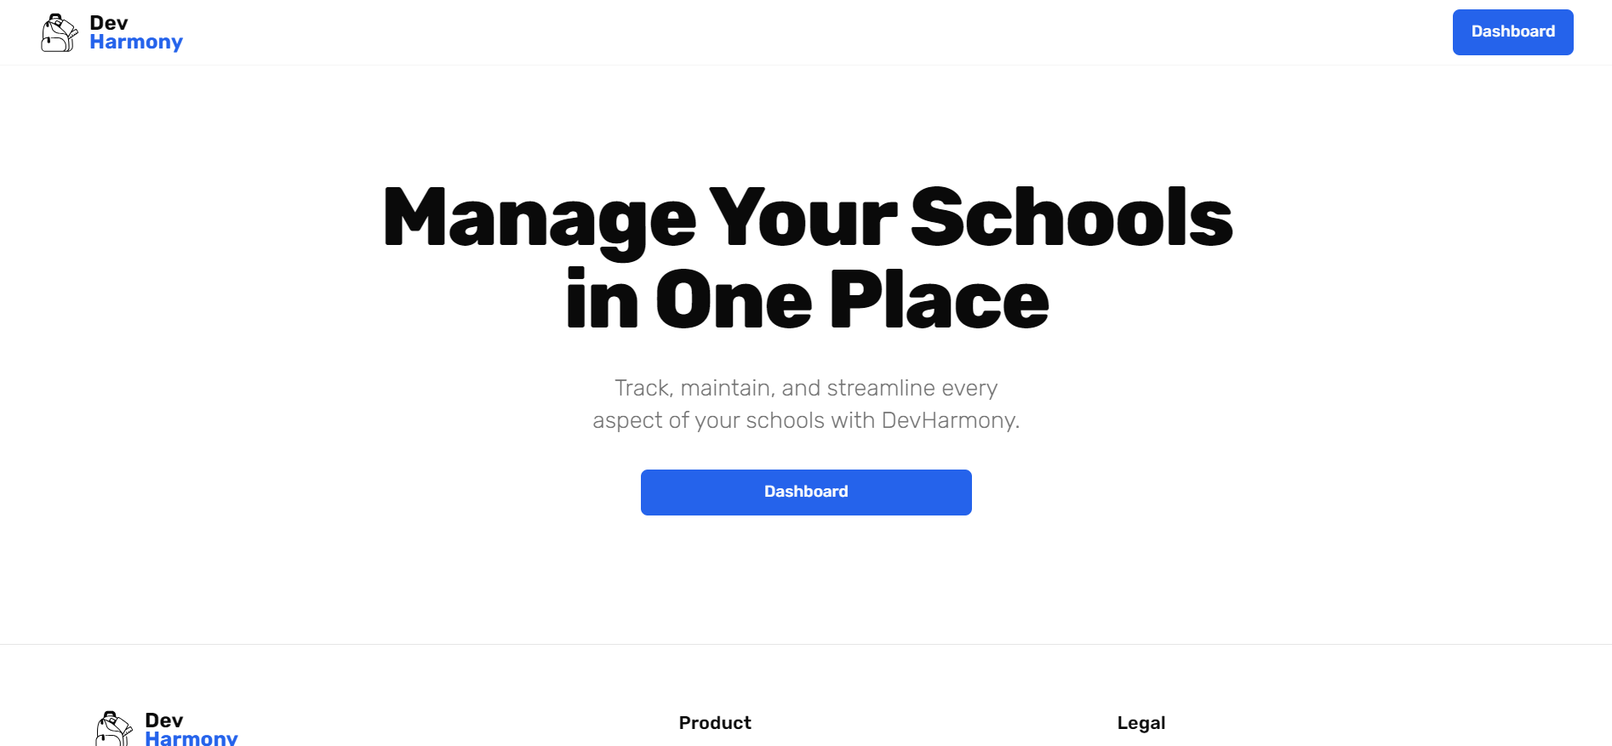
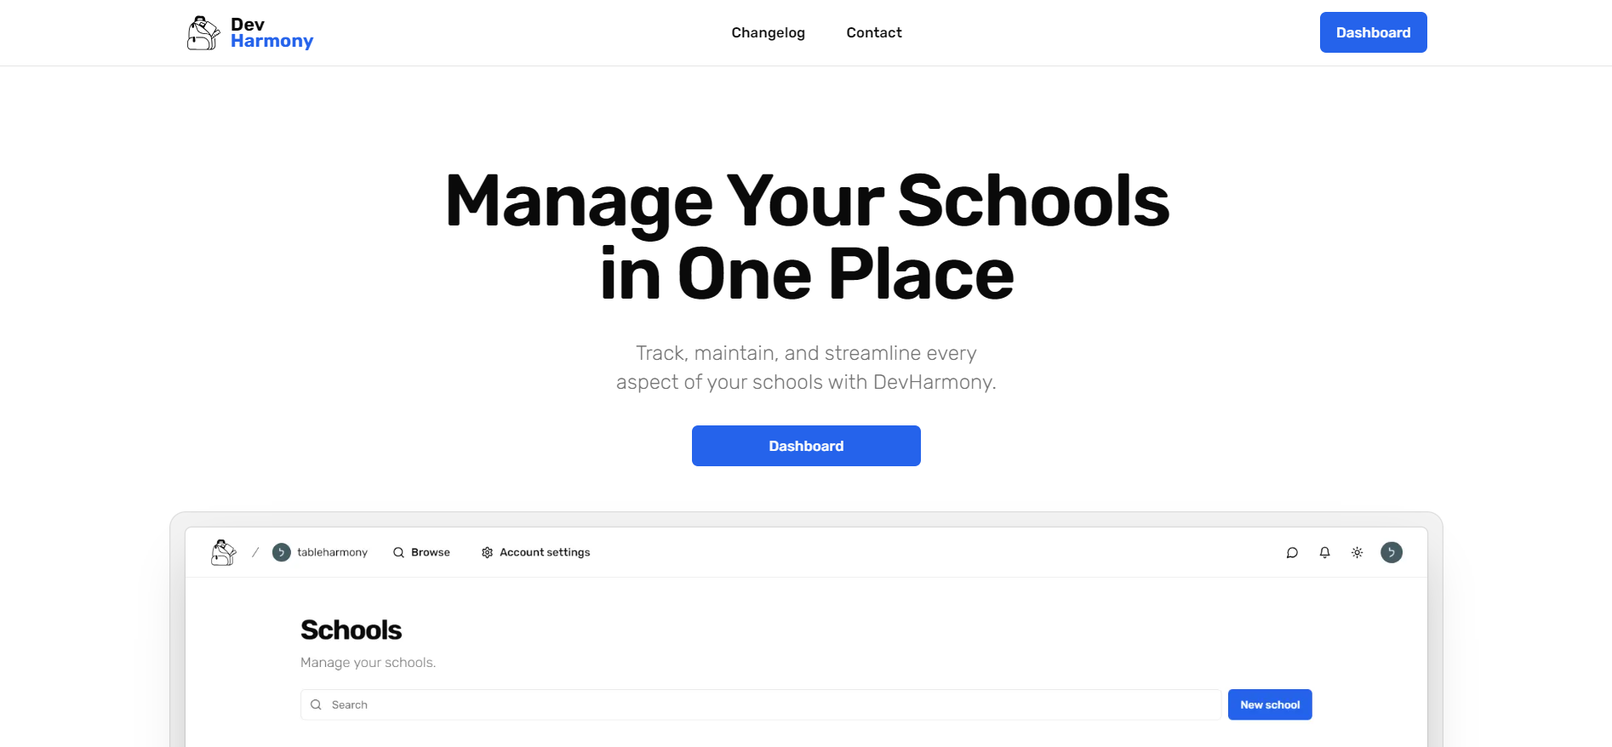
ui minor fixes

diff --git a/public/sw.js b/public/sw.js
@@ -1,1 +1,1 @@
-if(!self.define){let s,e={};const n=(n,c)=>(n=new URL(n+".js",c).href,e[n]||new Promise((e=>{if("document"in self){const s=document.createElement("script");s.src=n,s.onload=e,document.head.appendChild(s)}else s=n,importScripts(n),e()})).then((()=>{let s=e[n];if(!s)throw new Error(`Module ${n} didn’t register its module`);return s})));self.define=(c,a)=>{const t=s||("document"in self?document.currentScript.src:"")||location.href;if(e[t])return;let i={};const o=s=>n(s,t),r={module:{uri:t},exports:i,require:o};e[t]=Promise.all(c.map((s=>r[s]||o(s)))).then((s=>(a(...s),i)))}}define(["./workbox-e9849328"],(function(s){"use strict";importScripts(),self.skipWaiting(),s.clientsClaim(),s.precacheAndRoute([{url:"/_next/app-build-manifest.json",revision:"a9f966fd775cbc101e0749d63a0739d9"},{url:"/_next/static/chunks/1232-65c2bd0e52476702.js",revision:"z7jmnrWswtokpjYO-_5Rh"},{url:"/_next/static/chunks/15be12ea-9f983c0414de8ccf.js",revision:"z7jmnrWswtokpjYO-_5Rh"},{url:"/_next/static/chunks/1698-d7071b33f66cc5f3.js",revision:"z7jmnrWswtokpjYO-_5Rh"},{url:"/_next/static/chunks/1994-df08150406d97cff.js",revision:"z7jmnrWswtokpjYO-_5Rh"},{url:"/_next/static/chunks/2023-af6ad883ae61f665.js",revision:"z7jmnrWswtokpjYO-_5Rh"},{url:"/_next/static/chunks/221-ebfd36af40cd0c46.js",revision:"z7jmnrWswtokpjYO-_5Rh"},{url:"/_next/static/chunks/2221-79584a41ff7ca46a.js",revision:"z7jmnrWswtokpjYO-_5Rh"},{url:"/_next/static/chunks/2577-c667050678715b1c.js",revision:"z7jmnrWswtokpjYO-_5Rh"},{url:"/_next/static/chunks/2845-040b2211a756c250.js",revision:"z7jmnrWswtokpjYO-_5Rh"},{url:"/_next/static/chunks/3113-6ebdb71efa52bae4.js",revision:"z7jmnrWswtokpjYO-_5Rh"},{url:"/_next/static/chunks/3324-c027486fa1e75c88.js",revision:"z7jmnrWswtokpjYO-_5Rh"},{url:"/_next/static/chunks/3446-c319ce7ee53e9b38.js",revision:"z7jmnrWswtokpjYO-_5Rh"},{url:"/_next/static/chunks/3949-32330102e0c052d1.js",revision:"z7jmnrWswtokpjYO-_5Rh"},{url:"/_next/static/chunks/4005-4c08b5783fc878c6.js",revision:"z7jmnrWswtokpjYO-_5Rh"},{url:"/_next/static/chunks/4209-ae66905dfd730a77.js",revision:"z7jmnrWswtokpjYO-_5Rh"},{url:"/_next/static/chunks/4714-938ec2e18c556a72.js",revision:"z7jmnrWswtokpjYO-_5Rh"},{url:"/_next/static/chunks/4715-ed6a706d5b437a2e.js",revision:"z7jmnrWswtokpjYO-_5Rh"},{url:"/_next/static/chunks/4789-dd92a458758345f6.js",revision:"z7jmnrWswtokpjYO-_5Rh"},{url:"/_next/static/chunks/4881-a83385fe821856cf.js",revision:"z7jmnrWswtokpjYO-_5Rh"},{url:"/_next/static/chunks/4999-cc43c7b7138d0afe.js",revision:"z7jmnrWswtokpjYO-_5Rh"},{url:"/_next/static/chunks/5126-ee3d7f8405c62c60.js",revision:"z7jmnrWswtokpjYO-_5Rh"},{url:"/_next/static/chunks/5362-58b63543a5ec8bea.js",revision:"z7jmnrWswtokpjYO-_5Rh"},{url:"/_next/static/chunks/5450-00dd90b0c02352bb.js",revision:"z7jmnrWswtokpjYO-_5Rh"},{url:"/_next/static/chunks/5792-15719e17fc582434.js",revision:"z7jmnrWswtokpjYO-_5Rh"},{url:"/_next/static/chunks/5912-4054042d66e5c5c6.js",revision:"z7jmnrWswtokpjYO-_5Rh"},{url:"/_next/static/chunks/5934-3cb1310bd8097b9c.js",revision:"z7jmnrWswtokpjYO-_5Rh"},{url:"/_next/static/chunks/6011-5a0477b41a28270d.js",revision:"z7jmnrWswtokpjYO-_5Rh"},{url:"/_next/static/chunks/6297-498f089b25add8f1.js",revision:"z7jmnrWswtokpjYO-_5Rh"},{url:"/_next/static/chunks/7379-0860ce17af2aaa77.js",revision:"z7jmnrWswtokpjYO-_5Rh"},{url:"/_next/static/chunks/7429-b89a3cb897b30239.js",revision:"z7jmnrWswtokpjYO-_5Rh"},{url:"/_next/static/chunks/7786-a5ae846f8a586a01.js",revision:"z7jmnrWswtokpjYO-_5Rh"},{url:"/_next/static/chunks/8007-435c2623e5ee0e6c.js",revision:"z7jmnrWswtokpjYO-_5Rh"},{url:"/_next/static/chunks/8328-5ca3e51eb6b25ae3.js",revision:"z7jmnrWswtokpjYO-_5Rh"},{url:"/_next/static/chunks/872-9ebf5d184fd3db0c.js",revision:"z7jmnrWswtokpjYO-_5Rh"},{url:"/_next/static/chunks/8993-c3b0b291d297fbac.js",revision:"z7jmnrWswtokpjYO-_5Rh"},{url:"/_next/static/chunks/9556-a94e5746d937d654.js",revision:"z7jmnrWswtokpjYO-_5Rh"},{url:"/_next/static/chunks/app/(auth)/sign-in/%5B%5B...sign-in%5D%5D/page-2680e29f183e453a.js",revision:"z7jmnrWswtokpjYO-_5Rh"},{url:"/_next/static/chunks/app/(auth)/sign-up/%5B%5B...sign-up%5D%5D/page-596268212801ecb5.js",revision:"z7jmnrWswtokpjYO-_5Rh"},{url:"/_next/static/chunks/app/(landing)/layout-03a67f5ee4aa438e.js",revision:"z7jmnrWswtokpjYO-_5Rh"},{url:"/_next/static/chunks/app/(landing)/page-a9ee40e0ca7a9064.js",revision:"z7jmnrWswtokpjYO-_5Rh"},{url:"/_next/static/chunks/app/(legal)/layout-aa0511ec8b36bc65.js",revision:"z7jmnrWswtokpjYO-_5Rh"},{url:"/_next/static/chunks/app/(legal)/privacy-policy/page-75e4ec9e9f7fa92a.js",revision:"z7jmnrWswtokpjYO-_5Rh"},{url:"/_next/static/chunks/app/(legal)/terms-of-service/page-1ed547bcc980dda8.js",revision:"z7jmnrWswtokpjYO-_5Rh"},{url:"/_next/static/chunks/app/(main)/account-settings/page-06211ca84b4e590d.js",revision:"z7jmnrWswtokpjYO-_5Rh"},{url:"/_next/static/chunks/app/(main)/browse/page-d605e019797a93fc.js",revision:"z7jmnrWswtokpjYO-_5Rh"},{url:"/_next/static/chunks/app/(main)/layout-87b634f7248ce33c.js",revision:"z7jmnrWswtokpjYO-_5Rh"},{url:"/_next/static/chunks/app/(main)/notifications/page-0ec32f7140f2ce5d.js",revision:"z7jmnrWswtokpjYO-_5Rh"},{url:"/_next/static/chunks/app/(main)/schools/%5BschoolId%5D/(courses)/courses/%5BcourseId%5D/classes/page-115fcb42e413abe1.js",revision:"z7jmnrWswtokpjYO-_5Rh"},{url:"/_next/static/chunks/app/(main)/schools/%5BschoolId%5D/(courses)/courses/%5BcourseId%5D/course-settings/danger/page-7407c1b3518d4ca0.js",revision:"z7jmnrWswtokpjYO-_5Rh"},{url:"/_next/static/chunks/app/(main)/schools/%5BschoolId%5D/(courses)/courses/%5BcourseId%5D/course-settings/page-cc35d3def5d8a3fe.js",revision:"z7jmnrWswtokpjYO-_5Rh"},{url:"/_next/static/chunks/app/(main)/schools/%5BschoolId%5D/(courses)/courses/%5BcourseId%5D/enrollments/page-e84b7385846be3be.js",revision:"z7jmnrWswtokpjYO-_5Rh"},{url:"/_next/static/chunks/app/(main)/schools/%5BschoolId%5D/(courses)/courses/%5BcourseId%5D/events/%5BeventId%5D/page-0a72c1f321eb1b5f.js",revision:"z7jmnrWswtokpjYO-_5Rh"},{url:"/_next/static/chunks/app/(main)/schools/%5BschoolId%5D/(courses)/courses/%5BcourseId%5D/events/page-284ae741b0670b2c.js",revision:"z7jmnrWswtokpjYO-_5Rh"},{url:"/_next/static/chunks/app/(main)/schools/%5BschoolId%5D/(courses)/courses/%5BcourseId%5D/layout-388bd8c4f5c891c5.js",revision:"z7jmnrWswtokpjYO-_5Rh"},{url:"/_next/static/chunks/app/(main)/schools/%5BschoolId%5D/(courses)/courses/%5BcourseId%5D/memberships/page-65e760db91c90756.js",revision:"z7jmnrWswtokpjYO-_5Rh"},{url:"/_next/static/chunks/app/(main)/schools/%5BschoolId%5D/(courses)/courses/%5BcourseId%5D/page-446529c78780982a.js",revision:"z7jmnrWswtokpjYO-_5Rh"},{url:"/_next/static/chunks/app/(main)/schools/%5BschoolId%5D/(courses)/courses/page-18d98cdebb3c8cb3.js",revision:"z7jmnrWswtokpjYO-_5Rh"},{url:"/_next/static/chunks/app/(main)/schools/%5BschoolId%5D/(courses)/layout-9edc934ce34548cd.js",revision:"z7jmnrWswtokpjYO-_5Rh"},{url:"/_next/static/chunks/app/(main)/schools/%5BschoolId%5D/(main)/enrollments/page-85dee5fa183ed9a6.js",revision:"z7jmnrWswtokpjYO-_5Rh"},{url:"/_next/static/chunks/app/(main)/schools/%5BschoolId%5D/(main)/layout-1fa5de62aea90c8f.js",revision:"z7jmnrWswtokpjYO-_5Rh"},{url:"/_next/static/chunks/app/(main)/schools/%5BschoolId%5D/(main)/members/%5BmemberId%5D/courses/page-e1f86b26e9eefdb3.js",revision:"z7jmnrWswtokpjYO-_5Rh"},{url:"/_next/static/chunks/app/(main)/schools/%5BschoolId%5D/(main)/members/%5BmemberId%5D/layout-1a8abb7977116ce5.js",revision:"z7jmnrWswtokpjYO-_5Rh"},{url:"/_next/static/chunks/app/(main)/schools/%5BschoolId%5D/(main)/members/%5BmemberId%5D/page-1ba2db4f6503bb24.js",revision:"z7jmnrWswtokpjYO-_5Rh"},{url:"/_next/static/chunks/app/(main)/schools/%5BschoolId%5D/(main)/members/%5BmemberId%5D/schedule/page-ae97d28030942ff6.js",revision:"z7jmnrWswtokpjYO-_5Rh"},{url:"/_next/static/chunks/app/(main)/schools/%5BschoolId%5D/(main)/memberships/page-90ce93b7903ea9cb.js",revision:"z7jmnrWswtokpjYO-_5Rh"},{url:"/_next/static/chunks/app/(main)/schools/%5BschoolId%5D/(main)/page-17f95bf425612932.js",revision:"z7jmnrWswtokpjYO-_5Rh"},{url:"/_next/static/chunks/app/(main)/schools/%5BschoolId%5D/(main)/school-settings/danger/page-971001fcc11f89d7.js",revision:"z7jmnrWswtokpjYO-_5Rh"},{url:"/_next/static/chunks/app/(main)/schools/%5BschoolId%5D/(main)/school-settings/layout-aa6b91000044401e.js",revision:"z7jmnrWswtokpjYO-_5Rh"},{url:"/_next/static/chunks/app/(main)/schools/%5BschoolId%5D/(main)/school-settings/page-36b8a5872c45e05c.js",revision:"z7jmnrWswtokpjYO-_5Rh"},{url:"/_next/static/chunks/app/(main)/schools/%5BschoolId%5D/(main)/semesters/page-addcec604eeb7101.js",revision:"z7jmnrWswtokpjYO-_5Rh"},{url:"/_next/static/chunks/app/(main)/schools/%5BschoolId%5D/(onboarding)/layout-856eabbf78b7d3e4.js",revision:"z7jmnrWswtokpjYO-_5Rh"},{url:"/_next/static/chunks/app/(main)/schools/%5BschoolId%5D/(onboarding)/onboarding/page-705baefcc53e2b55.js",revision:"z7jmnrWswtokpjYO-_5Rh"},{url:"/_next/static/chunks/app/(main)/schools/%5BschoolId%5D/layout-a8e6c53ea5a33df7.js",revision:"z7jmnrWswtokpjYO-_5Rh"},{url:"/_next/static/chunks/app/(main)/schools/page-b6b606eebf3e89c8.js",revision:"z7jmnrWswtokpjYO-_5Rh"},{url:"/_next/static/chunks/app/(product)/changelog/page-818a4a484464416a.js",revision:"z7jmnrWswtokpjYO-_5Rh"},{url:"/_next/static/chunks/app/(product)/contact/page-db3a45fd3ed330b2.js",revision:"z7jmnrWswtokpjYO-_5Rh"},{url:"/_next/static/chunks/app/(product)/layout-dbbac3d7de49ad66.js",revision:"z7jmnrWswtokpjYO-_5Rh"},{url:"/_next/static/chunks/app/_not-found/page-b536fa387836169e.js",revision:"z7jmnrWswtokpjYO-_5Rh"},{url:"/_next/static/chunks/app/error-5a7586963e422097.js",revision:"z7jmnrWswtokpjYO-_5Rh"},{url:"/_next/static/chunks/app/layout-d11ff78c4294e2b1.js",revision:"z7jmnrWswtokpjYO-_5Rh"},{url:"/_next/static/chunks/app/not-found-0741db8281bc3c4a.js",revision:"z7jmnrWswtokpjYO-_5Rh"},{url:"/_next/static/chunks/c7779106-fe31ab97bef86c48.js",revision:"z7jmnrWswtokpjYO-_5Rh"},{url:"/_next/static/chunks/da47adfa-03fb47c27704d9d8.js",revision:"z7jmnrWswtokpjYO-_5Rh"},{url:"/_next/static/chunks/framework-20afca218c33ed8b.js",revision:"z7jmnrWswtokpjYO-_5Rh"},{url:"/_next/static/chunks/main-01ee9d1e16e3df42.js",revision:"z7jmnrWswtokpjYO-_5Rh"},{url:"/_next/static/chunks/main-app-fbb37358bc0f72d5.js",revision:"z7jmnrWswtokpjYO-_5Rh"},{url:"/_next/static/chunks/pages/_app-fb473a3f569b7c7b.js",revision:"z7jmnrWswtokpjYO-_5Rh"},{url:"/_next/static/chunks/pages/_error-aacac4c77029d55b.js",revision:"z7jmnrWswtokpjYO-_5Rh"},{url:"/_next/static/chunks/polyfills-78c92fac7aa8fdd8.js",revision:"79330112775102f91e1010318bae2bd3"},{url:"/_next/static/chunks/webpack-ec0ee202d1dbf4e9.js",revision:"z7jmnrWswtokpjYO-_5Rh"},{url:"/_next/static/css/4c259d75dd072490.css",revision:"4c259d75dd072490"},{url:"/_next/static/css/59ff6a7a264cbcf5.css",revision:"59ff6a7a264cbcf5"},{url:"/_next/static/media/0596140cb8d9223a-s.woff2",revision:"ddd5de66d4a7c56eeac6e0b10c5d8521"},{url:"/_next/static/media/1a4dd1d7cd3232ea-s.woff2",revision:"91c6fe4b62b5ebda5ccee3c4aa1eb33d"},{url:"/_next/static/media/341baa6ce7a16e81-s.woff2",revision:"0c7b4bd9156673a090be9999002eaab1"},{url:"/_next/static/media/356abdd51b933898-s.woff2",revision:"4ed5a85b9b460c31a44ba541e277bcc0"},{url:"/_next/static/media/c22ccc5eb58b83e1-s.p.woff2",revision:"8a051a2b61e4a766fff21bb106142860"},{url:"/_next/static/media/d70c23d6fe66d464-s.woff2",revision:"7abbd25026a8e3994d885bd8704b9588"},{url:"/_next/static/z7jmnrWswtokpjYO-_5Rh/_buildManifest.js",revision:"817729d7095565ec2a7ec861eb821170"},{url:"/_next/static/z7jmnrWswtokpjYO-_5Rh/_ssgManifest.js",revision:"b6652df95db52feb4daf4eca35380933"},{url:"/assets/course.svg",revision:"ba2ba42d92a74c3a6318ec8f954a754f"},{url:"/assets/education.svg",revision:"2a803e52c935f2b3f4e5081543b94373"},{url:"/assets/educator.svg",revision:"3d97f1a4b74866bba381fec9adfc9a34"},{url:"/assets/events.svg",revision:"3862f75e6931ba41b6ecf4e3032dbd71"},{url:"/assets/fixing-bugs.svg",revision:"aa12959679cb58b20a9ee6575fa96914"},{url:"/assets/hello.svg",revision:"fa8add3772c203670a83ee594ba2d534"},{url:"/assets/mailbox.svg",revision:"59289dc92136ed2a9f87f40d5ba435da"},{url:"/assets/no-data.svg",revision:"7e623c5b2eea4630d52196307ab0ff5d"},{url:"/assets/not-found.svg",revision:"d7cfefe6c1aa06ead9b2b8aada226dae"},{url:"/assets/online-calendar.svg",revision:"5bf7cec468c2572d0df63d407486249c"},{url:"/assets/posts.svg",revision:"2dbfe9d090e56d7e60a752b0447ee2e2"},{url:"/assets/qr-code.svg",revision:"f37aeadc9fd586fb3998290d973481c4"},{url:"/assets/school.svg",revision:"ba2ba42d92a74c3a6318ec8f954a754f"},{url:"/assets/selecting-teams.svg",revision:"fe52c0fc2519f88eef52608744615802"},{url:"/assets/under-construction.svg",revision:"ebcea209725c1f963c9696c193b98819"},{url:"/assets/welcome-cats.svg",revision:"5d0e88db48824a2ffa03b144cbe42e44"},{url:"/banner.png",revision:"9dcd428874495a8ea16930fb70dc115c"},{url:"/favicon.ico",revision:"971a00c26fef15e76f331f237caa0daf"},{url:"/hero.png",revision:"547fe86b51bdfb00a797d32d8d72c365"},{url:"/icons/icon-128x128.png",revision:"088046cda0e9cd4633b7ffce642e9c8d"},{url:"/icons/icon-144x144.png",revision:"61a15aa77e8b84a8a41d03b2c13ebf26"},{url:"/icons/icon-152x152.png",revision:"fa4f31a43b24ba074b88cc13a1ce8cd2"},{url:"/icons/icon-192x192.png",revision:"e29af56518614525af547980b36479df"},{url:"/icons/icon-36x36.png",revision:"f2677e2df18496cdb5540750cad352ce"},{url:"/icons/icon-384x384.png",revision:"f52b43f17860fa1dbf2f4d246b7d40b7"},{url:"/icons/icon-48x48.png",revision:"9f7538dbd43bc9416252140709934666"},{url:"/icons/icon-512x512.png",revision:"334921606b7dc531136855d256823a9a"},{url:"/icons/icon-72x72.png",revision:"c689fbb93f35266fd44a216cea96e92b"},{url:"/icons/icon-96x96.png",revision:"d7e8e52942a6f5030e0ceb90416cfa3f"},{url:"/logo.png",revision:"ac39c848ba996cbef5b2a9b8036d52fd"},{url:"/manifest.json",revision:"a5ec1ef24b4fa0e201871abfee4363bc"},{url:"/robots.txt",revision:"b6216d61c03e6ce0c9aea6ca7808f7ca"},{url:"/shapes-background.png",revision:"81e2d1720d836d4d823d0a63db700cbe"},{url:"/sitemap.xml",revision:"86f6d17d685b2695dacc3b8d7bdd9af5"}],{ignoreURLParametersMatching:[]}),s.cleanupOutdatedCaches(),s.registerRoute("/",new s.NetworkFirst({cacheName:"start-url",plugins:[{cacheWillUpdate:async({request:s,response:e,event:n,state:c})=>e&&"opaqueredirect"===e.type?new Response(e.body,{status:200,statusText:"OK",headers:e.headers}):e}]}),"GET"),s.registerRoute(/^https:\/\/fonts\.(?:gstatic)\.com\/.*/i,new s.CacheFirst({cacheName:"google-fonts-webfonts",plugins:[new s.ExpirationPlugin({maxEntries:4,maxAgeSeconds:31536e3})]}),"GET"),s.registerRoute(/^https:\/\/fonts\.(?:googleapis)\.com\/.*/i,new s.StaleWhileRevalidate({cacheName:"google-fonts-stylesheets",plugins:[new s.ExpirationPlugin({maxEntries:4,maxAgeSeconds:604800})]}),"GET"),s.registerRoute(/\.(?:eot|otf|ttc|ttf|woff|woff2|font.css)$/i,new s.StaleWhileRevalidate({cacheName:"static-font-assets",plugins:[new s.ExpirationPlugin({maxEntries:4,maxAgeSeconds:604800})]}),"GET"),s.registerRoute(/\.(?:jpg|jpeg|gif|png|svg|ico|webp)$/i,new s.StaleWhileRevalidate({cacheName:"static-image-assets",plugins:[new s.ExpirationPlugin({maxEntries:64,maxAgeSeconds:86400})]}),"GET"),s.registerRoute(/\/_next\/image\?url=.+$/i,new s.StaleWhileRevalidate({cacheName:"next-image",plugins:[new s.ExpirationPlugin({maxEntries:64,maxAgeSeconds:86400})]}),"GET"),s.registerRoute(/\.(?:mp3|wav|ogg)$/i,new s.CacheFirst({cacheName:"static-audio-assets",plugins:[new s.RangeRequestsPlugin,new s.ExpirationPlugin({maxEntries:32,maxAgeSeconds:86400})]}),"GET"),s.registerRoute(/\.(?:mp4)$/i,new s.CacheFirst({cacheName:"static-video-assets",plugins:[new s.RangeRequestsPlugin,new s.ExpirationPlugin({maxEntries:32,maxAgeSeconds:86400})]}),"GET"),s.registerRoute(/\.(?:js)$/i,new s.StaleWhileRevalidate({cacheName:"static-js-assets",plugins:[new s.ExpirationPlugin({maxEntries:32,maxAgeSeconds:86400})]}),"GET"),s.registerRoute(/\.(?:css|less)$/i,new s.StaleWhileRevalidate({cacheName:"static-style-assets",plugins:[new s.ExpirationPlugin({maxEntries:32,maxAgeSeconds:86400})]}),"GET"),s.registerRoute(/\/_next\/data\/.+\/.+\.json$/i,new s.StaleWhileRevalidate({cacheName:"next-data",plugins:[new s.ExpirationPlugin({maxEntries:32,maxAgeSeconds:86400})]}),"GET"),s.registerRoute(/\.(?:json|xml|csv)$/i,new s.NetworkFirst({cacheName:"static-data-assets",plugins:[new s.ExpirationPlugin({maxEntries:32,maxAgeSeconds:86400})]}),"GET"),s.registerRoute((({url:s})=>{if(!(self.origin===s.origin))return!1;const e=s.pathname;return!e.startsWith("/api/auth/")&&!!e.startsWith("/api/")}),new s.NetworkFirst({cacheName:"apis",networkTimeoutSeconds:10,plugins:[new s.ExpirationPlugin({maxEntries:16,maxAgeSeconds:86400})]}),"GET"),s.registerRoute((({url:s})=>{if(!(self.origin===s.origin))return!1;return!s.pathname.startsWith("/api/")}),new s.NetworkFirst({cacheName:"others",networkTimeoutSeconds:10,plugins:[new s.ExpirationPlugin({maxEntries:32,maxAgeSeconds:86400})]}),"GET"),s.registerRoute((({url:s})=>!(self.origin===s.origin)),new s.NetworkFirst({cacheName:"cross-origin",networkTimeoutSeconds:10,plugins:[new s.ExpirationPlugin({maxEntries:32,maxAgeSeconds:3600})]}),"GET")}));
+if(!self.define){let s,e={};const n=(n,i)=>(n=new URL(n+".js",i).href,e[n]||new Promise((e=>{if("document"in self){const s=document.createElement("script");s.src=n,s.onload=e,document.head.appendChild(s)}else s=n,importScripts(n),e()})).then((()=>{let s=e[n];if(!s)throw new Error(`Module ${n} didn’t register its module`);return s})));self.define=(i,a)=>{const c=s||("document"in self?document.currentScript.src:"")||location.href;if(e[c])return;let r={};const t=s=>n(s,c),o={module:{uri:c},exports:r,require:t};e[c]=Promise.all(i.map((s=>o[s]||t(s)))).then((s=>(a(...s),r)))}}define(["./workbox-e9849328"],(function(s){"use strict";importScripts(),self.skipWaiting(),s.clientsClaim(),s.precacheAndRoute([{url:"/_next/app-build-manifest.json",revision:"7c5fdc84c0bf31bac28fc5cfbc431b12"},{url:"/_next/static/A7grG_3XO_fNGCQFin_Yj/_buildManifest.js",revision:"185f097c874afabadf16d7b138d05383"},{url:"/_next/static/A7grG_3XO_fNGCQFin_Yj/_ssgManifest.js",revision:"b6652df95db52feb4daf4eca35380933"},{url:"/_next/static/chunks/159-010930d92e344248.js",revision:"A7grG_3XO_fNGCQFin_Yj"},{url:"/_next/static/chunks/15be12ea-d445c4d3806abe9e.js",revision:"A7grG_3XO_fNGCQFin_Yj"},{url:"/_next/static/chunks/1642-887c4c5c3060135a.js",revision:"A7grG_3XO_fNGCQFin_Yj"},{url:"/_next/static/chunks/203-4c0c485e42de71ca.js",revision:"A7grG_3XO_fNGCQFin_Yj"},{url:"/_next/static/chunks/2239-bf52d2a6025e7495.js",revision:"A7grG_3XO_fNGCQFin_Yj"},{url:"/_next/static/chunks/2312-7325423e076d0660.js",revision:"A7grG_3XO_fNGCQFin_Yj"},{url:"/_next/static/chunks/2369-0b47498964ef0c65.js",revision:"A7grG_3XO_fNGCQFin_Yj"},{url:"/_next/static/chunks/2470-cab3164028e3896b.js",revision:"A7grG_3XO_fNGCQFin_Yj"},{url:"/_next/static/chunks/274-b2606753602f3690.js",revision:"A7grG_3XO_fNGCQFin_Yj"},{url:"/_next/static/chunks/3522-07b884bea20b071c.js",revision:"A7grG_3XO_fNGCQFin_Yj"},{url:"/_next/static/chunks/3529-138e3387994463d7.js",revision:"A7grG_3XO_fNGCQFin_Yj"},{url:"/_next/static/chunks/3576-f2ab150afc19f55a.js",revision:"A7grG_3XO_fNGCQFin_Yj"},{url:"/_next/static/chunks/4385-fd25a5491526347e.js",revision:"A7grG_3XO_fNGCQFin_Yj"},{url:"/_next/static/chunks/4507-4aa648a4eb554dd9.js",revision:"A7grG_3XO_fNGCQFin_Yj"},{url:"/_next/static/chunks/4722-6081e8f898aadfa9.js",revision:"A7grG_3XO_fNGCQFin_Yj"},{url:"/_next/static/chunks/4799-86a89bfc226fe37c.js",revision:"A7grG_3XO_fNGCQFin_Yj"},{url:"/_next/static/chunks/4971-0e61c23aa9080876.js",revision:"A7grG_3XO_fNGCQFin_Yj"},{url:"/_next/static/chunks/5150-1bcfa74b4741468c.js",revision:"A7grG_3XO_fNGCQFin_Yj"},{url:"/_next/static/chunks/519-c7c38047f5356423.js",revision:"A7grG_3XO_fNGCQFin_Yj"},{url:"/_next/static/chunks/59-e3ad573ed04fd8b1.js",revision:"A7grG_3XO_fNGCQFin_Yj"},{url:"/_next/static/chunks/5972-75c42c004e2fcca6.js",revision:"A7grG_3XO_fNGCQFin_Yj"},{url:"/_next/static/chunks/6099-d017ad6e2797aa2e.js",revision:"A7grG_3XO_fNGCQFin_Yj"},{url:"/_next/static/chunks/6111-4c62234a487088ef.js",revision:"A7grG_3XO_fNGCQFin_Yj"},{url:"/_next/static/chunks/6152-25dba398633ac342.js",revision:"A7grG_3XO_fNGCQFin_Yj"},{url:"/_next/static/chunks/6399-1ffee2e1694d76e2.js",revision:"A7grG_3XO_fNGCQFin_Yj"},{url:"/_next/static/chunks/6494-5b32162bfdb7dd3e.js",revision:"A7grG_3XO_fNGCQFin_Yj"},{url:"/_next/static/chunks/6667-607c1d9ab190c0b8.js",revision:"A7grG_3XO_fNGCQFin_Yj"},{url:"/_next/static/chunks/7201-84d7ba382c3c044b.js",revision:"A7grG_3XO_fNGCQFin_Yj"},{url:"/_next/static/chunks/7328-80fdd3037bead70f.js",revision:"A7grG_3XO_fNGCQFin_Yj"},{url:"/_next/static/chunks/7606-c839d466e5f83ead.js",revision:"A7grG_3XO_fNGCQFin_Yj"},{url:"/_next/static/chunks/7889-1634d915520eb8b9.js",revision:"A7grG_3XO_fNGCQFin_Yj"},{url:"/_next/static/chunks/8920-edd91e79a650ae9d.js",revision:"A7grG_3XO_fNGCQFin_Yj"},{url:"/_next/static/chunks/8955-0fc374fd68dbd179.js",revision:"A7grG_3XO_fNGCQFin_Yj"},{url:"/_next/static/chunks/9275-c932105bcd1841f7.js",revision:"A7grG_3XO_fNGCQFin_Yj"},{url:"/_next/static/chunks/9690-81b1ebcb9faae0d9.js",revision:"A7grG_3XO_fNGCQFin_Yj"},{url:"/_next/static/chunks/981-af3d78232ab798ef.js",revision:"A7grG_3XO_fNGCQFin_Yj"},{url:"/_next/static/chunks/a3c6ef98-fe7c6b2ac8bebc38.js",revision:"A7grG_3XO_fNGCQFin_Yj"},{url:"/_next/static/chunks/app/(auth)/sign-in/%5B%5B...sign-in%5D%5D/page-fd00db279483f4e7.js",revision:"A7grG_3XO_fNGCQFin_Yj"},{url:"/_next/static/chunks/app/(auth)/sign-up/%5B%5B...sign-up%5D%5D/page-869f4d7e1b2e8615.js",revision:"A7grG_3XO_fNGCQFin_Yj"},{url:"/_next/static/chunks/app/(landing)/layout-dffbf06b64f95b13.js",revision:"A7grG_3XO_fNGCQFin_Yj"},{url:"/_next/static/chunks/app/(landing)/page-943bae61f96d94b7.js",revision:"A7grG_3XO_fNGCQFin_Yj"},{url:"/_next/static/chunks/app/(legal)/layout-212cb157dd2e2bd6.js",revision:"A7grG_3XO_fNGCQFin_Yj"},{url:"/_next/static/chunks/app/(legal)/privacy-policy/page-c96dd49b2a595ae7.js",revision:"A7grG_3XO_fNGCQFin_Yj"},{url:"/_next/static/chunks/app/(legal)/terms-of-service/page-8b6cb49969918f7e.js",revision:"A7grG_3XO_fNGCQFin_Yj"},{url:"/_next/static/chunks/app/(main)/account-settings/page-5158f667f2d4ec33.js",revision:"A7grG_3XO_fNGCQFin_Yj"},{url:"/_next/static/chunks/app/(main)/browse/page-76ee5a77f1dfbaff.js",revision:"A7grG_3XO_fNGCQFin_Yj"},{url:"/_next/static/chunks/app/(main)/layout-4b10122e9e5b6464.js",revision:"A7grG_3XO_fNGCQFin_Yj"},{url:"/_next/static/chunks/app/(main)/notifications/page-16b5a5569f04de69.js",revision:"A7grG_3XO_fNGCQFin_Yj"},{url:"/_next/static/chunks/app/(main)/schools/%5BschoolId%5D/(courses)/courses/%5BcourseId%5D/classes/page-d6d5378b802396a6.js",revision:"A7grG_3XO_fNGCQFin_Yj"},{url:"/_next/static/chunks/app/(main)/schools/%5BschoolId%5D/(courses)/courses/%5BcourseId%5D/course-settings/danger/page-f101b7bc4d038076.js",revision:"A7grG_3XO_fNGCQFin_Yj"},{url:"/_next/static/chunks/app/(main)/schools/%5BschoolId%5D/(courses)/courses/%5BcourseId%5D/course-settings/page-2a5f2699d7925630.js",revision:"A7grG_3XO_fNGCQFin_Yj"},{url:"/_next/static/chunks/app/(main)/schools/%5BschoolId%5D/(courses)/courses/%5BcourseId%5D/enrollments/page-0177653869974398.js",revision:"A7grG_3XO_fNGCQFin_Yj"},{url:"/_next/static/chunks/app/(main)/schools/%5BschoolId%5D/(courses)/courses/%5BcourseId%5D/events/%5BeventId%5D/page-892b47905450091c.js",revision:"A7grG_3XO_fNGCQFin_Yj"},{url:"/_next/static/chunks/app/(main)/schools/%5BschoolId%5D/(courses)/courses/%5BcourseId%5D/events/page-115cccae9665cf22.js",revision:"A7grG_3XO_fNGCQFin_Yj"},{url:"/_next/static/chunks/app/(main)/schools/%5BschoolId%5D/(courses)/courses/%5BcourseId%5D/layout-feb7d91dc3a64261.js",revision:"A7grG_3XO_fNGCQFin_Yj"},{url:"/_next/static/chunks/app/(main)/schools/%5BschoolId%5D/(courses)/courses/%5BcourseId%5D/memberships/page-a8c99c4781a9e9d7.js",revision:"A7grG_3XO_fNGCQFin_Yj"},{url:"/_next/static/chunks/app/(main)/schools/%5BschoolId%5D/(courses)/courses/%5BcourseId%5D/page-4f1b868d78059209.js",revision:"A7grG_3XO_fNGCQFin_Yj"},{url:"/_next/static/chunks/app/(main)/schools/%5BschoolId%5D/(courses)/courses/page-f2b911417787aa76.js",revision:"A7grG_3XO_fNGCQFin_Yj"},{url:"/_next/static/chunks/app/(main)/schools/%5BschoolId%5D/(courses)/layout-e243b4c4309833ee.js",revision:"A7grG_3XO_fNGCQFin_Yj"},{url:"/_next/static/chunks/app/(main)/schools/%5BschoolId%5D/(main)/enrollments/page-790e4dd621be744a.js",revision:"A7grG_3XO_fNGCQFin_Yj"},{url:"/_next/static/chunks/app/(main)/schools/%5BschoolId%5D/(main)/layout-8e680a8c5b70fffd.js",revision:"A7grG_3XO_fNGCQFin_Yj"},{url:"/_next/static/chunks/app/(main)/schools/%5BschoolId%5D/(main)/members/%5BmemberId%5D/courses/page-65d19ffb343460a4.js",revision:"A7grG_3XO_fNGCQFin_Yj"},{url:"/_next/static/chunks/app/(main)/schools/%5BschoolId%5D/(main)/members/%5BmemberId%5D/layout-4f0fe8943ef8cd7e.js",revision:"A7grG_3XO_fNGCQFin_Yj"},{url:"/_next/static/chunks/app/(main)/schools/%5BschoolId%5D/(main)/members/%5BmemberId%5D/page-08450eea8e36c5a8.js",revision:"A7grG_3XO_fNGCQFin_Yj"},{url:"/_next/static/chunks/app/(main)/schools/%5BschoolId%5D/(main)/members/%5BmemberId%5D/schedule/page-f76b461128d72e3d.js",revision:"A7grG_3XO_fNGCQFin_Yj"},{url:"/_next/static/chunks/app/(main)/schools/%5BschoolId%5D/(main)/memberships/page-c3d28c645ab2c19a.js",revision:"A7grG_3XO_fNGCQFin_Yj"},{url:"/_next/static/chunks/app/(main)/schools/%5BschoolId%5D/(main)/page-4eb78ce3a1602202.js",revision:"A7grG_3XO_fNGCQFin_Yj"},{url:"/_next/static/chunks/app/(main)/schools/%5BschoolId%5D/(main)/school-settings/danger/page-3e268f3f26fc54ac.js",revision:"A7grG_3XO_fNGCQFin_Yj"},{url:"/_next/static/chunks/app/(main)/schools/%5BschoolId%5D/(main)/school-settings/layout-eae1540831c7b1e4.js",revision:"A7grG_3XO_fNGCQFin_Yj"},{url:"/_next/static/chunks/app/(main)/schools/%5BschoolId%5D/(main)/school-settings/page-d917c01a3762c94f.js",revision:"A7grG_3XO_fNGCQFin_Yj"},{url:"/_next/static/chunks/app/(main)/schools/%5BschoolId%5D/(main)/semesters/page-3a82c0a142a2a761.js",revision:"A7grG_3XO_fNGCQFin_Yj"},{url:"/_next/static/chunks/app/(main)/schools/%5BschoolId%5D/(onboarding)/layout-5c720f72212c52d5.js",revision:"A7grG_3XO_fNGCQFin_Yj"},{url:"/_next/static/chunks/app/(main)/schools/%5BschoolId%5D/(onboarding)/onboarding/page-e7071b015faa40af.js",revision:"A7grG_3XO_fNGCQFin_Yj"},{url:"/_next/static/chunks/app/(main)/schools/%5BschoolId%5D/layout-e2087969579a3cc9.js",revision:"A7grG_3XO_fNGCQFin_Yj"},{url:"/_next/static/chunks/app/(main)/schools/page-9325ac92e77f1906.js",revision:"A7grG_3XO_fNGCQFin_Yj"},{url:"/_next/static/chunks/app/(product)/changelog/page-1825d33babf4e473.js",revision:"A7grG_3XO_fNGCQFin_Yj"},{url:"/_next/static/chunks/app/(product)/contact/page-042e760c9ebdb477.js",revision:"A7grG_3XO_fNGCQFin_Yj"},{url:"/_next/static/chunks/app/(product)/layout-3d67f1235a6e643a.js",revision:"A7grG_3XO_fNGCQFin_Yj"},{url:"/_next/static/chunks/app/_not-found/page-946a52668133063b.js",revision:"A7grG_3XO_fNGCQFin_Yj"},{url:"/_next/static/chunks/app/error-411c9fce46cacf7f.js",revision:"A7grG_3XO_fNGCQFin_Yj"},{url:"/_next/static/chunks/app/layout-9597a8c8e7a71ba8.js",revision:"A7grG_3XO_fNGCQFin_Yj"},{url:"/_next/static/chunks/app/not-found-5ea75378e4172df6.js",revision:"A7grG_3XO_fNGCQFin_Yj"},{url:"/_next/static/chunks/da47adfa-dac04bcf0783725f.js",revision:"A7grG_3XO_fNGCQFin_Yj"},{url:"/_next/static/chunks/framework-20afca218c33ed8b.js",revision:"A7grG_3XO_fNGCQFin_Yj"},{url:"/_next/static/chunks/main-399c9cd1d69ce530.js",revision:"A7grG_3XO_fNGCQFin_Yj"},{url:"/_next/static/chunks/main-app-68b96bb5c5548f0c.js",revision:"A7grG_3XO_fNGCQFin_Yj"},{url:"/_next/static/chunks/pages/_app-266e5ed218678f86.js",revision:"A7grG_3XO_fNGCQFin_Yj"},{url:"/_next/static/chunks/pages/_error-5e123bffa7f93b35.js",revision:"A7grG_3XO_fNGCQFin_Yj"},{url:"/_next/static/chunks/polyfills-78c92fac7aa8fdd8.js",revision:"79330112775102f91e1010318bae2bd3"},{url:"/_next/static/chunks/webpack-622bd549df28f2ac.js",revision:"A7grG_3XO_fNGCQFin_Yj"},{url:"/_next/static/css/3c52c6a43b611924.css",revision:"3c52c6a43b611924"},{url:"/_next/static/css/8f0272836e5ac2ee.css",revision:"8f0272836e5ac2ee"},{url:"/_next/static/media/0596140cb8d9223a-s.woff2",revision:"ddd5de66d4a7c56eeac6e0b10c5d8521"},{url:"/_next/static/media/1a4dd1d7cd3232ea-s.woff2",revision:"91c6fe4b62b5ebda5ccee3c4aa1eb33d"},{url:"/_next/static/media/341baa6ce7a16e81-s.woff2",revision:"0c7b4bd9156673a090be9999002eaab1"},{url:"/_next/static/media/356abdd51b933898-s.woff2",revision:"4ed5a85b9b460c31a44ba541e277bcc0"},{url:"/_next/static/media/c22ccc5eb58b83e1-s.p.woff2",revision:"8a051a2b61e4a766fff21bb106142860"},{url:"/_next/static/media/d70c23d6fe66d464-s.woff2",revision:"7abbd25026a8e3994d885bd8704b9588"},{url:"/assets/course.svg",revision:"ba2ba42d92a74c3a6318ec8f954a754f"},{url:"/assets/education.svg",revision:"2a803e52c935f2b3f4e5081543b94373"},{url:"/assets/educator.svg",revision:"3d97f1a4b74866bba381fec9adfc9a34"},{url:"/assets/events.svg",revision:"3862f75e6931ba41b6ecf4e3032dbd71"},{url:"/assets/fixing-bugs.svg",revision:"aa12959679cb58b20a9ee6575fa96914"},{url:"/assets/hello.svg",revision:"fa8add3772c203670a83ee594ba2d534"},{url:"/assets/mailbox.svg",revision:"59289dc92136ed2a9f87f40d5ba435da"},{url:"/assets/no-data.svg",revision:"7e623c5b2eea4630d52196307ab0ff5d"},{url:"/assets/not-found.svg",revision:"d7cfefe6c1aa06ead9b2b8aada226dae"},{url:"/assets/online-calendar.svg",revision:"5bf7cec468c2572d0df63d407486249c"},{url:"/assets/posts.svg",revision:"2dbfe9d090e56d7e60a752b0447ee2e2"},{url:"/assets/qr-code.svg",revision:"f37aeadc9fd586fb3998290d973481c4"},{url:"/assets/school.svg",revision:"ba2ba42d92a74c3a6318ec8f954a754f"},{url:"/assets/selecting-teams.svg",revision:"fe52c0fc2519f88eef52608744615802"},{url:"/assets/under-construction.svg",revision:"ebcea209725c1f963c9696c193b98819"},{url:"/assets/welcome-cats.svg",revision:"5d0e88db48824a2ffa03b144cbe42e44"},{url:"/banner.png",revision:"ab3bb587eeb7b421eaf10928a42e11e3"},{url:"/favicon.ico",revision:"971a00c26fef15e76f331f237caa0daf"},{url:"/icons/icon-128x128.png",revision:"088046cda0e9cd4633b7ffce642e9c8d"},{url:"/icons/icon-144x144.png",revision:"61a15aa77e8b84a8a41d03b2c13ebf26"},{url:"/icons/icon-152x152.png",revision:"fa4f31a43b24ba074b88cc13a1ce8cd2"},{url:"/icons/icon-192x192.png",revision:"e29af56518614525af547980b36479df"},{url:"/icons/icon-36x36.png",revision:"f2677e2df18496cdb5540750cad352ce"},{url:"/icons/icon-384x384.png",revision:"f52b43f17860fa1dbf2f4d246b7d40b7"},{url:"/icons/icon-48x48.png",revision:"9f7538dbd43bc9416252140709934666"},{url:"/icons/icon-512x512.png",revision:"334921606b7dc531136855d256823a9a"},{url:"/icons/icon-72x72.png",revision:"c689fbb93f35266fd44a216cea96e92b"},{url:"/icons/icon-96x96.png",revision:"d7e8e52942a6f5030e0ceb90416cfa3f"},{url:"/landing/hero-dark.png",revision:"3062fb32716743ee949924e9ec44f436"},{url:"/landing/hero-light.png",revision:"75cf3d0d0cb4057670054bde3c7b72a3"},{url:"/logo.png",revision:"ac39c848ba996cbef5b2a9b8036d52fd"},{url:"/manifest.json",revision:"a5ec1ef24b4fa0e201871abfee4363bc"},{url:"/robots.txt",revision:"b6216d61c03e6ce0c9aea6ca7808f7ca"},{url:"/shapes-background.png",revision:"81e2d1720d836d4d823d0a63db700cbe"},{url:"/sitemap.xml",revision:"86f6d17d685b2695dacc3b8d7bdd9af5"}],{ignoreURLParametersMatching:[]}),s.cleanupOutdatedCaches(),s.registerRoute("/",new s.NetworkFirst({cacheName:"start-url",plugins:[{cacheWillUpdate:async({request:s,response:e,event:n,state:i})=>e&&"opaqueredirect"===e.type?new Response(e.body,{status:200,statusText:"OK",headers:e.headers}):e}]}),"GET"),s.registerRoute(/^https:\/\/fonts\.(?:gstatic)\.com\/.*/i,new s.CacheFirst({cacheName:"google-fonts-webfonts",plugins:[new s.ExpirationPlugin({maxEntries:4,maxAgeSeconds:31536e3})]}),"GET"),s.registerRoute(/^https:\/\/fonts\.(?:googleapis)\.com\/.*/i,new s.StaleWhileRevalidate({cacheName:"google-fonts-stylesheets",plugins:[new s.ExpirationPlugin({maxEntries:4,maxAgeSeconds:604800})]}),"GET"),s.registerRoute(/\.(?:eot|otf|ttc|ttf|woff|woff2|font.css)$/i,new s.StaleWhileRevalidate({cacheName:"static-font-assets",plugins:[new s.ExpirationPlugin({maxEntries:4,maxAgeSeconds:604800})]}),"GET"),s.registerRoute(/\.(?:jpg|jpeg|gif|png|svg|ico|webp)$/i,new s.StaleWhileRevalidate({cacheName:"static-image-assets",plugins:[new s.ExpirationPlugin({maxEntries:64,maxAgeSeconds:86400})]}),"GET"),s.registerRoute(/\/_next\/image\?url=.+$/i,new s.StaleWhileRevalidate({cacheName:"next-image",plugins:[new s.ExpirationPlugin({maxEntries:64,maxAgeSeconds:86400})]}),"GET"),s.registerRoute(/\.(?:mp3|wav|ogg)$/i,new s.CacheFirst({cacheName:"static-audio-assets",plugins:[new s.RangeRequestsPlugin,new s.ExpirationPlugin({maxEntries:32,maxAgeSeconds:86400})]}),"GET"),s.registerRoute(/\.(?:mp4)$/i,new s.CacheFirst({cacheName:"static-video-assets",plugins:[new s.RangeRequestsPlugin,new s.ExpirationPlugin({maxEntries:32,maxAgeSeconds:86400})]}),"GET"),s.registerRoute(/\.(?:js)$/i,new s.StaleWhileRevalidate({cacheName:"static-js-assets",plugins:[new s.ExpirationPlugin({maxEntries:32,maxAgeSeconds:86400})]}),"GET"),s.registerRoute(/\.(?:css|less)$/i,new s.StaleWhileRevalidate({cacheName:"static-style-assets",plugins:[new s.ExpirationPlugin({maxEntries:32,maxAgeSeconds:86400})]}),"GET"),s.registerRoute(/\/_next\/data\/.+\/.+\.json$/i,new s.StaleWhileRevalidate({cacheName:"next-data",plugins:[new s.ExpirationPlugin({maxEntries:32,maxAgeSeconds:86400})]}),"GET"),s.registerRoute(/\.(?:json|xml|csv)$/i,new s.NetworkFirst({cacheName:"static-data-assets",plugins:[new s.ExpirationPlugin({maxEntries:32,maxAgeSeconds:86400})]}),"GET"),s.registerRoute((({url:s})=>{if(!(self.origin===s.origin))return!1;const e=s.pathname;return!e.startsWith("/api/auth/")&&!!e.startsWith("/api/")}),new s.NetworkFirst({cacheName:"apis",networkTimeoutSeconds:10,plugins:[new s.ExpirationPlugin({maxEntries:16,maxAgeSeconds:86400})]}),"GET"),s.registerRoute((({url:s})=>{if(!(self.origin===s.origin))return!1;return!s.pathname.startsWith("/api/")}),new s.NetworkFirst({cacheName:"others",networkTimeoutSeconds:10,plugins:[new s.ExpirationPlugin({maxEntries:32,maxAgeSeconds:86400})]}),"GET"),s.registerRoute((({url:s})=>!(self.origin===s.origin)),new s.NetworkFirst({cacheName:"cross-origin",networkTimeoutSeconds:10,plugins:[new s.ExpirationPlugin({maxEntries:32,maxAgeSeconds:3600})]}),"GET")}));

diff --git a/src/app/(landing)/_sections/hero.tsx b/src/app/(landing)/_sections/hero.tsx
@@ -6,6 +6,7 @@ import { SignedIn, SignedOut, SignInButton } from "@clerk/nextjs";
 
 import { Button } from "@/components/ui/button";
 import { ArrowRightIcon } from "lucide-react";
+import Image from "next/image";
 
 export function HeroSection() {
   return (
@@ -30,6 +31,24 @@ export function HeroSection() {
             <Link href="/schools">Dashboard</Link>
           </Button>
         </SignedIn>
+        <div className="max-w-6xl px-6 pt-8 sm:max-w-4xl md:max-w-screen-xl lg:px-8">
+          <div className="-m-2 rounded-xl bg-neutral-900/5 p-2 ring-1 ring-inset ring-neutral-900/10 dark:bg-neutral-100/10 lg:-m-4 lg:rounded-2xl lg:p-4">
+            <Image
+              alt="Hero Image"
+              width="1222"
+              height="636"
+              className="rounded-md bg-white shadow-2xl ring-1 ring-neutral-900/10 dark:hidden"
+              src="/landing/hero-light.png"
+            />
+            <Image
+              alt="Hero Image"
+              width="1222"
+              height="636"
+              className="hidden rounded-md bg-black shadow-2xl ring-1 ring-neutral-900/10 dark:block"
+              src="/landing/hero-dark.png"
+            />
+          </div>
+        </div>
       </div>
     </section>
   );

diff --git a/src/app/(main)/account-settings/page.tsx b/src/app/(main)/account-settings/page.tsx
@@ -1,9 +1,5 @@
 import { ConfigurationPanel } from "@/components/configuration-panel";
-import {
-  PageHeader,
-  PageHeaderDescription,
-  PageHeaderHeading,
-} from "@/components/page-header";
+import { PageHeader, PageHeaderHeading } from "@/components/page-header";
 
 import { UpdateNameForm } from "./update-name-form";
 import { EditBioForm } from "./edit-bio-form";
@@ -17,12 +13,9 @@ export const metadata = createMetadata({
 
 export default function AccountSettingsPage() {
   return (
-    <div className="container">
+    <div className="container pb-8">
       <PageHeader>
         <PageHeaderHeading>Account settings</PageHeaderHeading>
-        <PageHeaderDescription>
-          Manage your account settings and set preferences.
-        </PageHeaderDescription>
       </PageHeader>
 
       <div className="space-y-8">

diff --git a/src/app/(main)/schools/[schoolId]/(main)/school-settings/layout.tsx b/src/app/(main)/schools/[schoolId]/(main)/school-settings/layout.tsx
@@ -1,15 +1,9 @@
 import {
   PageActions,
   PageHeader,
-  PageHeaderDescription,
   PageHeaderHeading,
 } from "@/components/page-header";
 import { SettingsTabs } from "./_components/tabs-section";
-import { Metadata } from "next";
-
-export const metadata: Metadata = {
-  description: "Manage your school's settings and set preferences.",
-};
 
 export default function SettingsLayout({
   children,
@@ -20,9 +14,6 @@ export default function SettingsLayout({
     <div className="container">
       <PageHeader>
         <PageHeaderHeading>School settings</PageHeaderHeading>
-        <PageHeaderDescription>
-          Manage your school&apos;s settings and set preferences.
-        </PageHeaderDescription>
         <PageActions>
           <SettingsTabs />
         </PageActions>

diff --git a/src/app/(main)/schools/page.tsx b/src/app/(main)/schools/page.tsx
@@ -1,7 +1,6 @@
 import {
   PageActions,
   PageHeader,
-  PageHeaderDescription,
   PageHeaderHeading,
 } from "@/components/page-header";
 import { CreateSchoolSheet } from "./_components/create-school-sheet";
@@ -25,10 +24,9 @@ export default function SchoolsPage({
   const searchQuery = searchParams?.query || "";
 
   return (
-    <div className="container">
+    <div className="container pb-8">
       <PageHeader>
         <PageHeaderHeading>Schools</PageHeaderHeading>
-        <PageHeaderDescription>Manage your schools.</PageHeaderDescription>
         <PageActions className="flex w-full flex-row">
           <SearchForm />
           <CreateSchoolSheet />

diff --git a/src/app/(main)/browse/page.tsx b/src/app/(main)/browse/page.tsx
@@ -1,7 +1,6 @@
 import {
   PageActions,
   PageHeader,
-  PageHeaderDescription,
   PageHeaderHeading,
 } from "@/components/page-header";
 
@@ -25,12 +24,9 @@ export default function BrowsePage({
   const searchQuery = searchParams?.query || "";
 
   return (
-    <div className="container">
+    <div className="container pb-8">
       <PageHeader>
         <PageHeaderHeading>Browse</PageHeaderHeading>
-        <PageHeaderDescription>
-          Explore publicly available schools.
-        </PageHeaderDescription>
         <PageActions className="flex w-full flex-row">
           <SearchForm />
         </PageActions>

diff --git a/src/app/(main)/browse/public-school-list.tsx b/src/app/(main)/browse/public-school-list.tsx
@@ -26,10 +26,10 @@ export function PublicSchoolList({ searchQuery }: { searchQuery: string }) {
           </p>
         </div>
         <Image
-          src="/assets/no-data.svg"
+          src="/assets/under-construction.svg"
           alt="No public schools available"
-          width="200"
-          height="200"
+          width="250"
+          height="250"
         />
       </div>
     );

diff --git a/src/app/(main)/schools/[schoolId]/(main)/layout.tsx b/src/app/(main)/schools/[schoolId]/(main)/layout.tsx
@@ -10,7 +10,7 @@ export default function MainSchoolLayout({
       <SchoolSidebar />
       <div className="relative w-full overflow-x-auto">
         <div className="overflow-auto md:h-[calc(100vh-65px)]">
-          <div className="relative mx-auto w-full">{children}</div>
+          <div className="relative mx-auto w-full pb-8">{children}</div>
         </div>
       </div>
     </div>

diff --git a/src/app/(main)/schools/[schoolId]/(courses)/layout.tsx b/src/app/(main)/schools/[schoolId]/(courses)/layout.tsx
@@ -10,7 +10,7 @@ export default function CoursesLayout({
       <SchoolSidebar />
       <div className="relative w-full overflow-x-auto">
         <div className="overflow-auto md:h-[calc(100vh-65px)]">
-          <div className="relative mx-auto w-full">{children}</div>
+          <div className="relative mx-auto w-full pb-8">{children}</div>
         </div>
       </div>
     </div>

diff --git a/src/app/(main)/notifications/page.tsx b/src/app/(main)/notifications/page.tsx
@@ -14,7 +14,7 @@ export const metadata = createMetadata({
 
 export default function NotificationsPage() {
   return (
-    <div className="container">
+    <div className="container pb-8">
       <PageHeader>
         <PageHeaderHeading>Notifications</PageHeaderHeading>
         <PageHeaderDescription>

diff --git a/src/components/side-nav.tsx b/src/components/side-nav.tsx
@@ -48,7 +48,7 @@ export default function SideNav({ NavItems }: { NavItems: () => NavItem[] }) {
   };
 
   return (
-    <div className="h-full">
+    <div className="h-full pr-4">
       <div
         className={cn(
           isSidebarExpanded ? "w-[200px]" : "w-[68px]",

diff --git a/src/app/(main)/schools/[schoolId]/(courses)/courses/[courseId]/layout.tsx b/src/app/(main)/schools/[schoolId]/(courses)/courses/[courseId]/layout.tsx
@@ -34,7 +34,7 @@ export default function CourseLayout({
   return (
     <CourseProvider>
       <CourseHeader />
-      <div className="pb-4">{children}</div>
+      {children}
     </CourseProvider>
   );
 }
